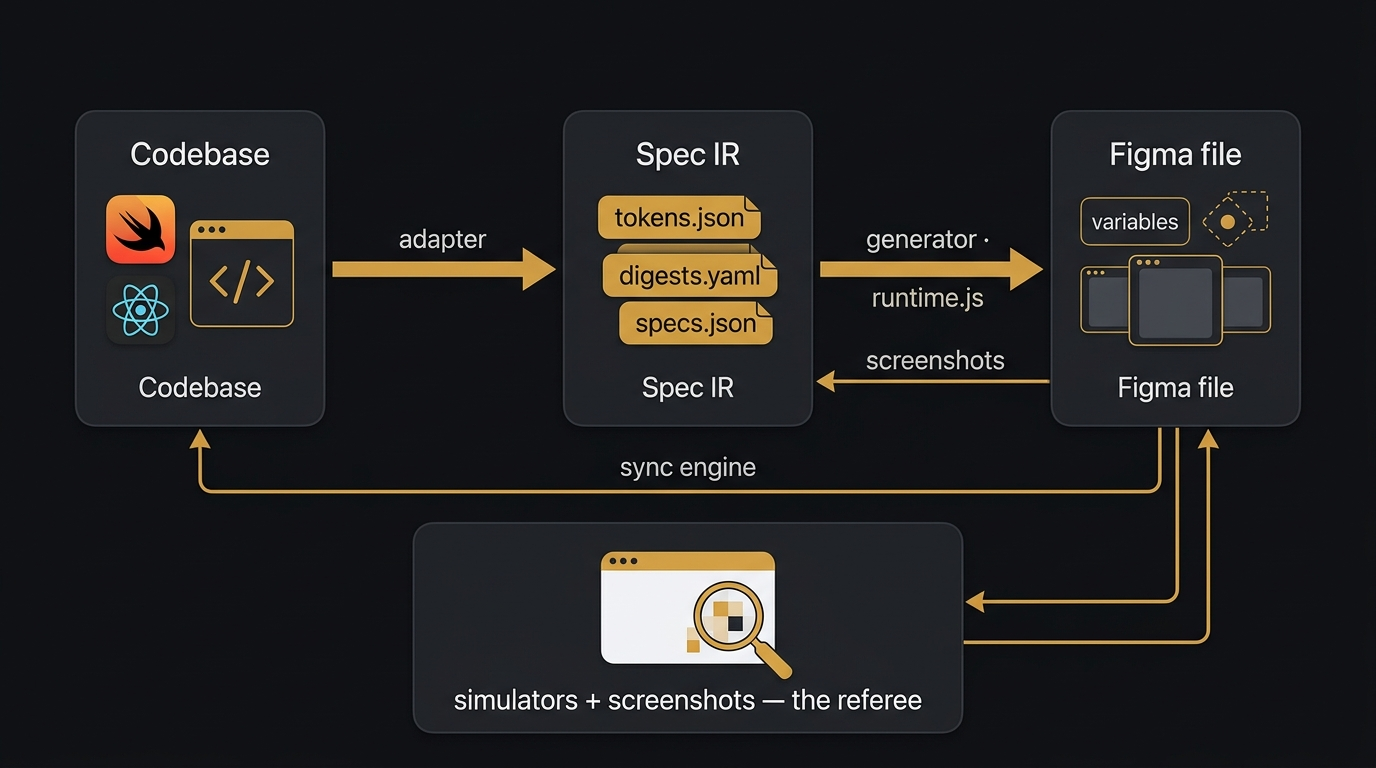
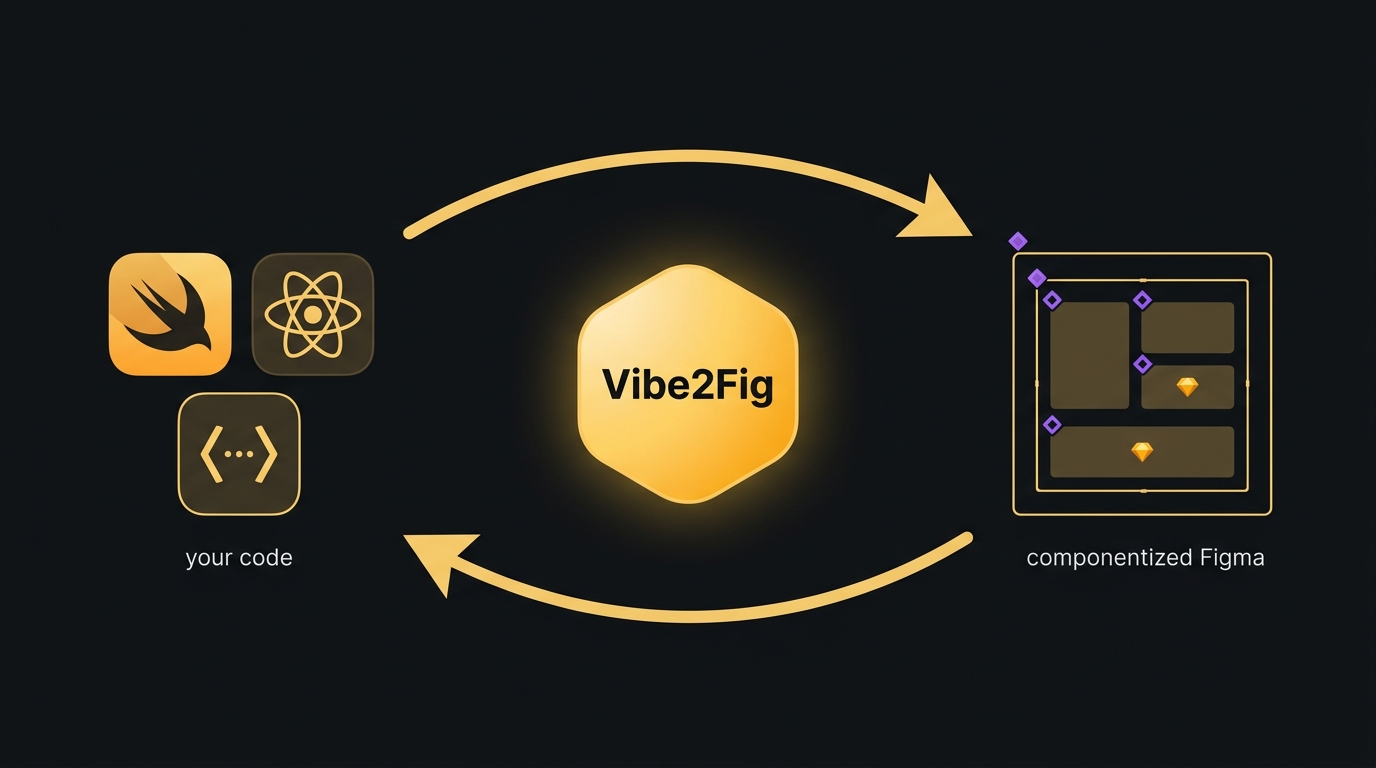
Simple bidirectional hero graphic: code ⇄ Vibe2Fig ⇄ componentized Figma

diff --git a/README.md b/README.md
@@ -5,7 +5,7 @@ componentized, render-verified Figma file** — tokens, component sets,
 per-screen frames, and documentation pages — with the code as the only source
 of truth (no screenshot tracing). Works with any SwiftUI or React program.
 
-![Vibe2Fig pipeline — codebase → spec IR → Figma, with seeded simulators as the referee](docs/pipeline.png)
+![Vibe2Fig — your code becomes componentized Figma, and Figma edits become updated code](docs/pipeline.png)
 
 **The method in one sentence:** code supplies the numbers, a seeded running
 app (simulator for SwiftUI, browser for React) supplies the rendered truth,
